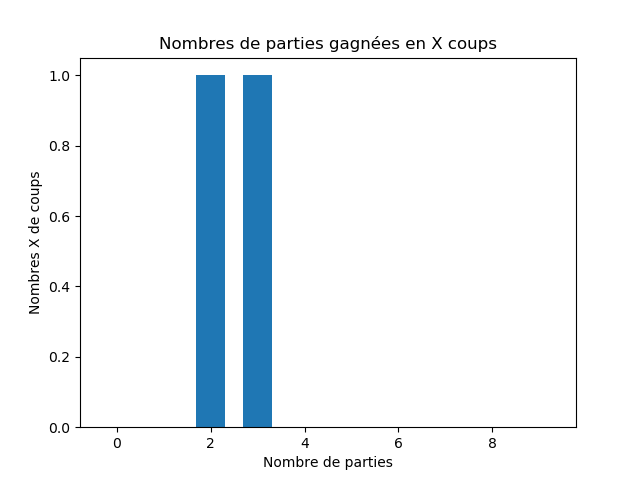
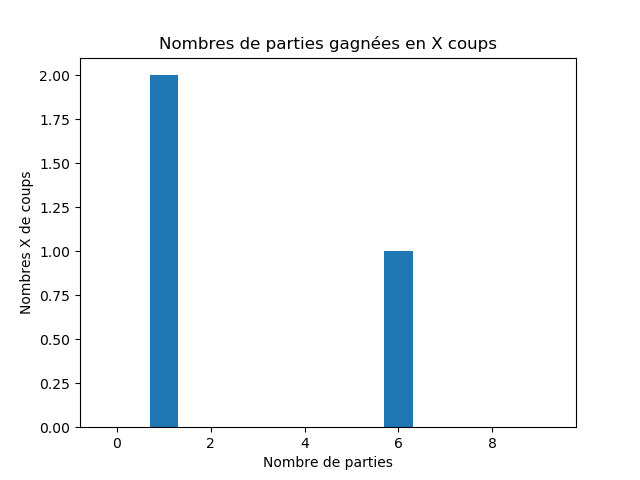
oublie histo + prise en charge date réelle

diff --git a/web/app.py b/web/app.py
@@ -6,6 +6,7 @@ from fonctions_wordle_flask import *
 from fonctions_experience import *
 import matplotlib.pyplot as plt
 app = Flask(__name__)
+from datetime import date
 
 #Configuration
 app.config.update(
@@ -209,7 +210,8 @@ def accueil(nb_lettres=None, nb_essais=None,mode_de_jeu=None,mot_cherche=None, l
                         cur.execute("UPDATE Utilisateur SET Nb_victoires = (?), Experience = (?) WHERE Nom_utilisateur=(?)",(nb_victoires,experience,user))
                         id_partie=cur.execute("SELECT COUNT(*) FROM Historique")
                         id_partie=id_partie.fetchall()[0][0]
-                        Partie=[id_partie,user,'Vrai',nb_essais[0]-nb_essais[-1],'25/01/2022','classique',mot_cherche]
+                        date_partie=str(date.today())[5:]+"-"+str(date.today())[:4]
+                        Partie=[id_partie,user,'Vrai',nb_essais[0]-nb_essais[-1],date_partie,'Classique',mot_cherche]  #ajout a la table historique
                         cur.execute("insert into Historique values(?,?,?,?,?,?,?)", Partie)
                         con.commit()
                 return render_template("accueil.html",nb_lettres=nb_lettres, nb_essais=nb_essais,mode_de_jeu=mode_de_jeu,mot_cherche=mot_cherche, liste_mot_propose=liste_mot_propose,liste_etat_lettres=liste_etat_lettres,vie=vie,score_survie=score_survie,nb_essais_big50=nb_essais_big50,score_big50=score_big50,timer=timer,score_clm=score_clm)
@@ -229,6 +231,11 @@ def accueil(nb_lettres=None, nb_essais=None,mode_de_jeu=None,mot_cherche=None, l
                             experience+=10
 
                             cur.execute("UPDATE Utilisateur SET Nb_defaites = (?), Experience = (?) WHERE Nom_utilisateur=(?)",(nb_defaites,experience,user))
+                            id_partie=cur.execute("SELECT COUNT(*) FROM Historique")
+                            id_partie=id_partie.fetchall()[0][0]
+                            date_partie=str(date.today())[5:]+"-"+str(date.today())[:4]
+                            Partie=[id_partie,user,'Faux',nb_essais[0]-nb_essais[-1],date_partie,'Classique',mot_cherche]  #ajout a la table historique
+                            cur.execute("insert into Historique values(?,?,?,?,?,?,?)", Partie)
                             con.commit()
                 liste_mot_propose = place_premiere_lettre(nb_lettres,liste_mot_propose,mot_cherche,point) #On place la première lettre dans le mot a deviné
                 return render_template("accueil.html",nb_lettres=nb_lettres, nb_essais=nb_essais,mode_de_jeu=mode_de_jeu,mot_cherche=mot_cherche, liste_mot_propose=liste_mot_propose,liste_etat_lettres=liste_etat_lettres,vie=vie,score_survie=score_survie,nb_essais_big50=nb_essais_big50,score_big50=score_big50,timer=timer,score_clm=score_clm)
@@ -439,7 +446,7 @@ def histo():
             u[2]="Victoire"
         else:
             u[2]="Défaite"
-    
+    histo_perso.reverse()
     return render_template("historique.html",histo=histo_perso)
 
 
